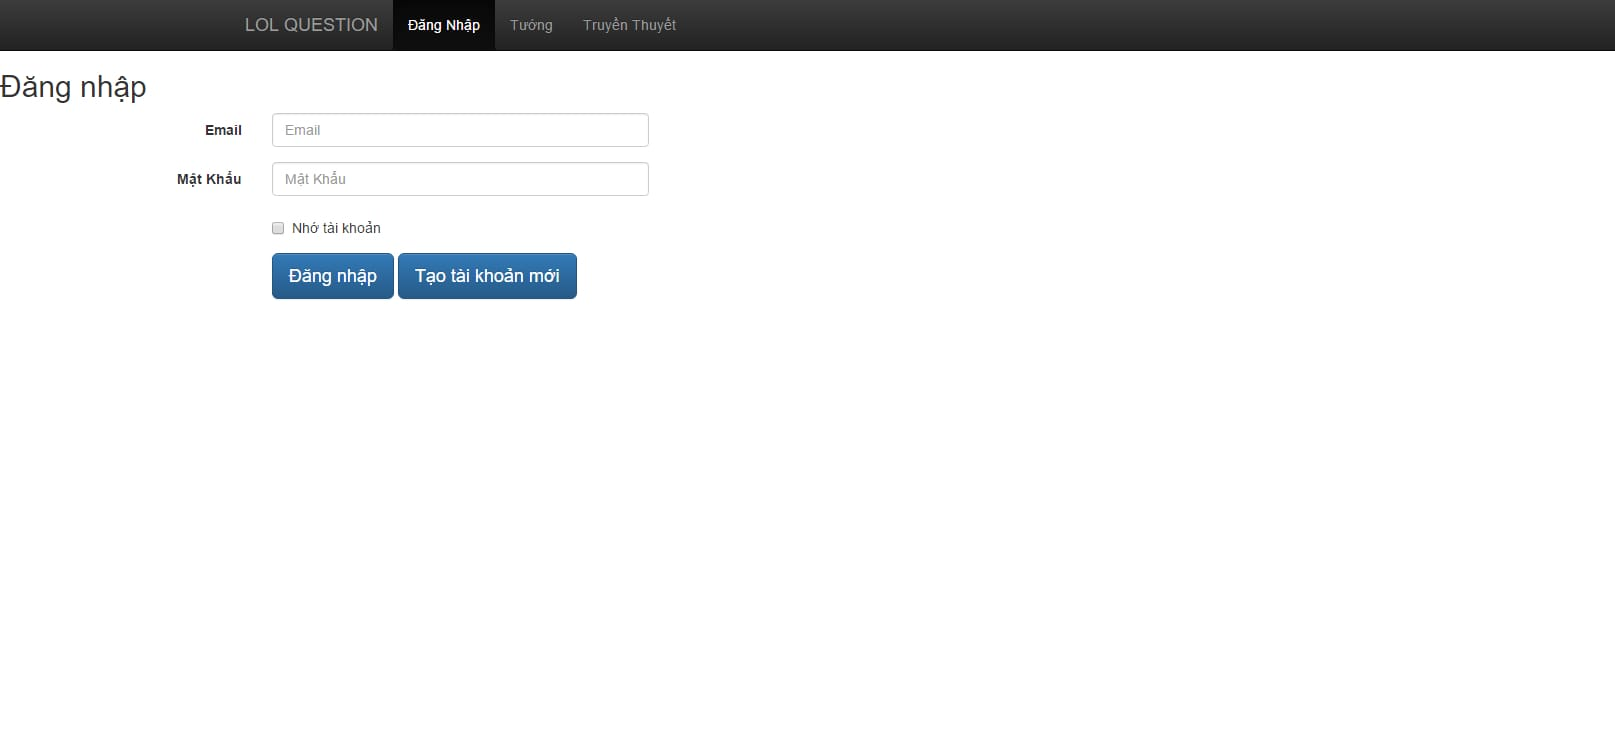
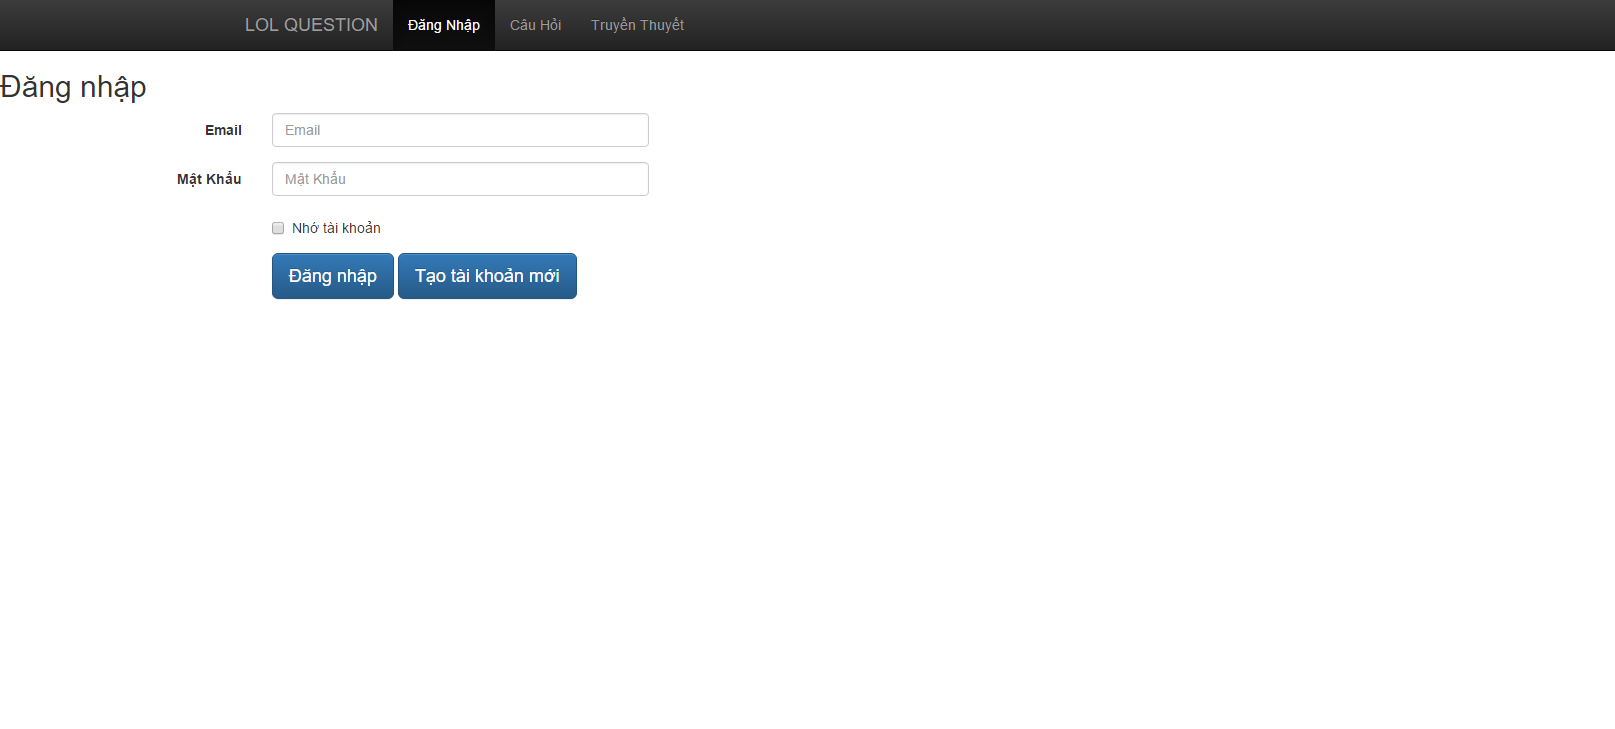
Bai tap nhom VIRUS

diff --git a/Nhom-VIRUS/4.html b/Nhom-VIRUS/4.html
@@ -28,13 +28,13 @@
 			            <span class="icon-bar"></span>
 			            <span class="icon-bar"></span>
 			          </button>
-			          <a class="navbar-brand" href="#">LOL QUESTION</a>
+			          <a class="navbar-brand" href="C:/Users/Trung%20Luong/Desktop/INT2208-2-2017/Nhom-VIRUS/1.html">LOL QUESTION</a>
 			        </div>
 			        <div id="navbar" class="collapse navbar-collapse">
 			          <ul class="nav navbar-nav">
-			            <li > <a href="#about">Đăng Nhập</a></li>
-			            <li ><a href="#contact">Tướng</a></li>
-			            <li class="active"><a href="#contact">Truyền Thuyết</a></li>
+			            <li > <a href="C:/Users/Trung%20Luong/Desktop/INT2208-2-2017/Nhom-VIRUS/2.html">Đăng Nhập</a></li>
+			            <li ><a href="C:/Users/Trung%20Luong/Desktop/INT2208-2-2017/Nhom-VIRUS/3.html">Câu Hỏi</a></li>
+			            <li class="active"><a href="C:/Users/Trung%20Luong/Desktop/INT2208-2-2017/Nhom-VIRUS/4.html">Truyền Thuyết</a></li>
 			          </ul>
 			        </div>
 			      </div>
@@ -45,67 +45,45 @@
 		</div>
 	<h1 class="form-signin-heading">Truyền thuyết về các tướng</h1>
 	<div >
-		<img src="C:\Users\Administrator\Desktop\1.jpg" width="5%">
-		<button type="submit" class="btn btn-default">Aatrox</button>
-		<img src="C:\Users\Administrator\Desktop\2.jpg" width="5%">
-		<button type="submit" class="btn btn-default">Ahri</button>
-		<img src="C:\Users\Administrator\Desktop\3.jpg" width="5%">
-		<button type="submit" class="btn btn-default">Akali</button>
-		<img src="C:\Users\Administrator\Desktop\4.jpg" width="5%">
-		<button type="submit" class="btn btn-default">Alistar</button>
-		<img src="C:\Users\Administrator\Desktop\5.jpg" width="5%">
-		<button type="submit" class="btn btn-default">Amumu</button>
-		<img src="C:\Users\Administrator\Desktop\6.jpg" width="5%">
-		<button type="submit" class="btn btn-default">Anivia</button>
-		<img src="C:\Users\Administrator\Desktop\7.jpg" width="5%">
-		<button type="submit" class="btn btn-default">Annie</button>
-		<img src="C:\Users\Administrator\Desktop\8.jpg" width="5%">
-		<button type="submit" class="btn btn-default">Ashe</button>
-		<img src="C:\Users\Administrator\Desktop\9.jpg" width="5%">
-		<button type="submit" class="btn btn-default">Aurelion Sol</button>
+		<img src="C:\Users\Trung Luong\Desktop\Nhom-VIRUS\1.jpg" width="5%">
+		<a href="C:/Users/Trung%20Luong/Desktop/INT2208-2-2017/Nhom-VIRUS/5.html"><button type="submit" class="btn btn-default" href ="C:/Users/Trung%20Luong/Desktop/INT2208-2-2017/Nhom-VIRUS/5.html">Aatrox</button></a>	
+		<img src="C:\Users\Trung Luong\Desktop\Nhom-VIRUS\2.jpg" width="5%">
+		<a href="C:/Users/Trung%20Luong/Desktop/INT2208-2-2017/Nhom-VIRUS/6.html"><button type="submit" class="btn btn-default" href ="C:/Users/Trung%20Luong/Desktop/INT2208-2-2017/Nhom-VIRUS/5.html">Ahri</button></a>	
+		<img src="C:\Users\Trung Luong\Desktop\Nhom-VIRUS\3.jpg" width="5%">
+		<a href="C:/Users/Trung%20Luong/Desktop/INT2208-2-2017/Nhom-VIRUS/5.html"><button type="submit" class="btn btn-default" href ="C:/Users/Trung%20Luong/Desktop/INT2208-2-2017/Nhom-VIRUS/5.html">Akali</button></a>	
+		<img src="C:\Users\Trung Luong\Desktop\Nhom-VIRUS\4.jpg" width="5%">
+		<a href="C:/Users/Trung%20Luong/Desktop/INT2208-2-2017/Nhom-VIRUS/5.html"><button type="submit" class="btn btn-default" href ="C:/Users/Trung%20Luong/Desktop/INT2208-2-2017/Nhom-VIRUS/5.html">Alistar</button></a>	
+		<img src="C:\Users\Trung Luong\Desktop\Nhom-VIRUS\5.jpg" width="5%">
+		<a href="C:/Users/Trung%20Luong/Desktop/INT2208-2-2017/Nhom-VIRUS/5.html"><button type="submit" class="btn btn-default" href ="C:/Users/Trung%20Luong/Desktop/INT2208-2-2017/Nhom-VIRUS/5.html">Amumu</button></a>	
+		<img src="C:\Users\Trung Luong\Desktop\Nhom-VIRUS\6.jpg" width="5%">
+		<a href="C:/Users/Trung%20Luong/Desktop/INT2208-2-2017/Nhom-VIRUS/5.html"><button type="submit" class="btn btn-default" href ="C:/Users/Trung%20Luong/Desktop/INT2208-2-2017/Nhom-VIRUS/5.html">Anivia</button></a>	
+		<img src="C:\Users\Trung Luong\Desktop\Nhom-VIRUS\7.jpg" width="5%">
+		<a href="C:/Users/Trung%20Luong/Desktop/INT2208-2-2017/Nhom-VIRUS/5.html"><button type="submit" class="btn btn-default" href ="C:/Users/Trung%20Luong/Desktop/INT2208-2-2017/Nhom-VIRUS/5.html">Annie</button></a>	
+		<img src="C:\Users\Trung Luong\Desktop\Nhom-VIRUS\8.jpg" width="5%">
+		<a href="C:/Users/Trung%20Luong/Desktop/INT2208-2-2017/Nhom-VIRUS/5.html"><button type="submit" class="btn btn-default" href ="C:/Users/Trung%20Luong/Desktop/INT2208-2-2017/Nhom-VIRUS/5.html">Ashe</button></a>	
+		<img src="C:\Users\Trung Luong\Desktop\Nhom-VIRUS\9.jpg" width="5%">
+		<a href="C:/Users/Trung%20Luong/Desktop/INT2208-2-2017/Nhom-VIRUS/5.html"><button type="submit" class="btn btn-default" href ="C:/Users/Trung%20Luong/Desktop/INT2208-2-2017/Nhom-VIRUS/5.html">Aurelion Sol</button></a>	
 		</div>
 		<h1>   </h1>
 		<div >
-		<img src="C:\Users\Administrator\Desktop\10.jpg" width="5%">
-		<button type="submit" class="btn btn-default">Azir</button>
-		<img src="C:\Users\Administrator\Desktop\11.jpg" width="5%">
-		<button type="submit" class="btn btn-default">Bard</button>
-		<img src="C:\Users\Administrator\Desktop\12.jpg" width="5%">
-		<button type="submit" class="btn btn-default">Bliztcrank</button>
-		<img src="C:\Users\Administrator\Desktop\13.jpg" width="5%">
-		<button type="submit" class="btn btn-default">Brand</button>
-		<img src="C:\Users\Administrator\Desktop\14.jpg" width="5%">
-		<button type="submit" class="btn btn-default">Braum</button>
-		<img src="C:\Users\Administrator\Desktop\15.jpg" width="5%">
-		<button type="submit" class="btn btn-default">Caitlyn</button>
-		<img src="C:\Users\Administrator\Desktop\16.jpg" width="5%">
-		<button type="submit" class="btn btn-default">Camille</button>
-		<img src="C:\Users\Administrator\Desktop\17.jpg" width="5%">
-		<button type="submit" class="btn btn-default">Cassiopeia</button>
-		<img src="C:\Users\Administrator\Desktop\18.jpg" width="5%">
-		<button type="submit" class="btn btn-default">Cho'Gath</button>
+		<img src="C:\Users\Trung Luong\Desktop\Nhom-VIRUS\10.jpg" width="5%">
+		<a href="C:/Users/Trung%20Luong/Desktop/INT2208-2-2017/Nhom-VIRUS/5.html"><button type="submit" class="btn btn-default" href ="C:/Users/Trung%20Luong/Desktop/INT2208-2-2017/Nhom-VIRUS/5.html">Azir</button></a>	
+		<img src="C:\Users\Trung Luong\Desktop\Nhom-VIRUS\11.jpg" width="5%">
+		<a href="C:/Users/Trung%20Luong/Desktop/INT2208-2-2017/Nhom-VIRUS/5.html"><button type="submit" class="btn btn-default" href ="C:/Users/Trung%20Luong/Desktop/INT2208-2-2017/Nhom-VIRUS/5.html">Bard</button></a>	
+		<img src="C:\Users\Trung Luong\Desktop\Nhom-VIRUS\12.jpg" width="5%">
+		<a href="C:/Users/Trung%20Luong/Desktop/INT2208-2-2017/Nhom-VIRUS/5.html"><button type="submit" class="btn btn-default" href ="C:/Users/Trung%20Luong/Desktop/INT2208-2-2017/Nhom-VIRUS/5.html">Bliztcrank</button></a>	
+		<img src="C:\Users\Trung Luong\Desktop\Nhom-VIRUS\13.jpg" width="5%">
+		<a href="C:/Users/Trung%20Luong/Desktop/INT2208-2-2017/Nhom-VIRUS/5.html"><button type="submit" class="btn btn-default" href ="C:/Users/Trung%20Luong/Desktop/INT2208-2-2017/Nhom-VIRUS/5.html">Brand</button></a>	
+		<img src="C:\Users\Trung Luong\Desktop\Nhom-VIRUS\14.jpg" width="5%">
+		<a href="C:/Users/Trung%20Luong/Desktop/INT2208-2-2017/Nhom-VIRUS/5.html"><button type="submit" class="btn btn-default" href ="C:/Users/Trung%20Luong/Desktop/INT2208-2-2017/Nhom-VIRUS/5.html">Braum</button></a>	
+		<img src="C:\Users\Trung Luong\Desktop\Nhom-VIRUS\15.jpg" width="5%">
+		<a href="C:/Users/Trung%20Luong/Desktop/INT2208-2-2017/Nhom-VIRUS/5.html"><button type="submit" class="btn btn-default" href ="C:/Users/Trung%20Luong/Desktop/INT2208-2-2017/Nhom-VIRUS/5.html">Caitlyn</button></a>	
+		<img src="C:\Users\Trung Luong\Desktop\Nhom-VIRUS\16.jpg" width="5%">
+		<a href="C:/Users/Trung%20Luong/Desktop/INT2208-2-2017/Nhom-VIRUS/5.html"><button type="submit" class="btn btn-default" href ="C:/Users/Trung%20Luong/Desktop/INT2208-2-2017/Nhom-VIRUS/5.html">Camille</button></a>	
+		<img src="C:\Users\Trung Luong\Desktop\Nhom-VIRUS\17.jpg" width="5%">
+		<a href="C:/Users/Trung%20Luong/Desktop/INT2208-2-2017/Nhom-VIRUS/5.html"><button type="submit" class="btn btn-default" href ="C:/Users/Trung%20Luong/Desktop/INT2208-2-2017/Nhom-VIRUS/5.html">Cassiopeia</button></a>	
+		<img src="C:\Users\Trung Luong\Desktop\Nhom-VIRUS\18.jpg" width="5%">
+		<a href="C:/Users/Trung%20Luong/Desktop/INT2208-2-2017/Nhom-VIRUS/5.html"><button type="submit" class="btn btn-default" href ="C:/Users/Trung%20Luong/Desktop/INT2208-2-2017/Nhom-VIRUS/5.html">Cho'Gath</button></a>	
 		</div>
-		<h1> </h1>
-		<div >
-		<img src="C:\Users\Administrator\Desktop\19.jpg" width="5%">
-		<button type="submit" class="btn btn-default">Corki</button>	
-		<img src="C:\Users\Administrator\Desktop\20.jpg" width="5%">
-		<button type="submit" class="btn btn-default">Darius</button>
-		<img src="C:\Users\Administrator\Desktop\21.jpg" width="5%">
-		<button type="submit" class="btn btn-default">Diana</button>
-		<img src="C:\Users\Administrator\Desktop\22.jpg" width="5%">
-		<button type="submit" class="btn btn-default">Dr.Mundo</button>
-		<img src="C:\Users\Administrator\Desktop\23.jpg" width="5%">
-		<button type="submit" class="btn btn-default">Draven</button>
-		<img src="C:\Users\Administrator\Desktop\24.jpg" width="5%">
-		<button type="submit" class="btn btn-default">Ekko</button>
-		<img src="C:\Users\Administrator\Desktop\25.jpg" width="5%">
-		<button type="submit" class="btn btn-default">Elise</button>
-		<img src="C:\Users\Administrator\Desktop\26.jpg" width="5%">
-		<button type="submit" class="btn btn-default">Evelynn</button>
-		<img src="C:\Users\Administrator\Desktop\27.jpg" width="5%">
-		<button type="submit" class="btn btn-default">Ezreal</button>
-	</div>
-
 </body>	
 </html>

diff --git a/Nhom-VIRUS/6.html b/Nhom-VIRUS/6.html
@@ -1,0 +1,55 @@
+<!DOCTYPE html>
+<html>	
+<head>
+<title>TRUYỀN THUYẾT VỀ AHRI</title>
+	<meta name="viewport" content="width=device-width, initial-scale=1, maximum-scale=1, user-scalable=no">
+	<link rel="stylesheet" href="https://maxcdn.bootstrapcdn.com/bootstrap/3.3.7/css/bootstrap.min.css" integrity="sha384-BVYiiSIFeK1dGmJRAkycuHAHRg32OmUcww7on3RYdg4Va+PmSTsz/K68vbdEjh4u" crossorigin="anonymous">
+
+	<link rel="stylesheet" href="https://maxcdn.bootstrapcdn.com/bootstrap/3.3.7/css/bootstrap-theme.min.css" integrity="sha384-rHyoN1iRsVXV4nD0JutlnGaslCJuC7uwjduW9SVrLvRYooPp2bWYgmgJQIXwl/Sp" crossorigin="anonymous">
+
+
+	<script src="https://maxcdn.bootstrapcdn.com/bootstrap/3.3.7/js/bootstrap.min.js" integrity="sha384-Tc5IQib027qvyjSMfHjOMaLkfuWVxZxUPnCJA7l2mCWNIpG9mGCD8wGNIcPD7Txa" crossorigin="anonymous"></script>
+	<style>
+		body {
+			padding:50px 0px;
+		}
+	</style>
+</head>
+<body>
+	<div class "container">
+		<div class "row">
+			<div class = "col-md-5">
+				<nav class="navbar navbar-inverse navbar-fixed-top">
+			      <div class="container">
+			        <div class="navbar-header">
+			          <button type="button" class="navbar-toggle collapsed" data-toggle="collapse" data-target="#navbar" aria-expanded="false" aria-controls="navbar">
+			            <span class="sr-only">Toggle navigation</span>
+			            <span class="icon-bar"></span>
+			            <span class="icon-bar"></span>
+			            <span class="icon-bar"></span>
+			          </button>
+			          <a class="navbar-brand" href="C:/Users/Trung%20Luong/Desktop/INT2208-2-2017/Nhom-VIRUS/1.html">LOL QUESTION</a>
+			        </div>
+			        <div id="navbar" class="collapse navbar-collapse">
+			          <ul class="nav navbar-nav">
+			            <li > <a href="C:/Users/Trung%20Luong/Desktop/INT2208-2-2017/Nhom-VIRUS/2.html">Đăng Nhập</a></li>
+			            <li ><a href="C:/Users/Trung%20Luong/Desktop/INT2208-2-2017/Nhom-VIRUS/3.html">Câu Hỏi</a></li>
+			            <li class="active"><a href="C:/Users/Trung%20Luong/Desktop/INT2208-2-2017/Nhom-VIRUS/4.html">Truyền Thuyết</a></li>
+			          </ul>
+			        </div>
+			      </div>
+    			</nav>
+			</div>
+		</div>					
+	</div>
+	<div>
+	<h1 class="form-signin-heading">Ahri</h1>
+	</div>
+	<div style="background: gold">
+	<img src="C:\Users\Trung Luong\Desktop\Nhom-VIRUS\2.jpg" width="10%">
+	<h2>Không như những con hồ li khác cư ngụ trong các khu rừng phía nam Ionia, Ahri vẫn luôn cảm nhận được một mối liên kết lạ kì với thế giới ma thuật quanh cô; một mối liên kết dường như chưa hoàn thiện. Sâu thẳm bên trong, cô cho rằng hình hài hiện tại của mình hoàn toàn là một sai lầm của tạo hóa, và cô không bao giờ dừng ước mơ về một mai kia được trở thành một con người. Khát khao đó dường như chẳng bao giờ có thể trở thành hiện thực, cho đến một ngày kia cô vô tình gặp phải một cuộc chiến của loài người. Một cảnh tượng thật khủng khiếp, khắp nơi đều tràn ngập hình ảnh của những người chết hoặc trọng thương. Cô cảm thấy bị cuốn hút bởi một người - gã đàn ông mặc áo choàng đang hấp hối trong một trường ma thuật. Cô tiến lại gần và lập tức một thứ gì đó bên trong Ahri được kích hoạt, vươn tới người đàn ông theo một phương thức mà cô không tài nào hiểu nổi. Sự sống của ông ta trút dần sang người cô qua những liên kết phép thuật vô hình. Một cảm giác bao trùm và say đắm. Rồi khi cảm giác đó qua đi, cô mừng rỡ xiết bao khi nhận thấy mình đã thay đổi. Bộ lông trắng mượt của cô đã biến mất, cơ thể Ahri giờ mang dáng dấp của những thi thể đang nằm rải rác quanh đó.Tuy nhiên, dù đang mang hình hài của loài người, cô biết rằng sự chuyển hóa vẫn chưa được hoàn tất. Bằng sự tinh ranh của mình, cô nhanh chóng thích nghi với xã hội loài người và tận dụng sắc đẹp của bản thân để cám dỗ những gã đàn ông ngây thơ. Với thủ đoạn đó, cô có thể hút sức sống khi họ đang bị quyến rũ. Càng ngày cô càng tiến gần đến khát khao của mình hơn, nhưng đồng thời, một cảm giác hối hận cũng trỗi dậy trong cô. Ahri đã có những cảm xúc mà lẽ ra bản thể hồ li chẳng bao giờ có. Rồi cô nhận ra mình không thể trút bỏ đi được những cảm xúc con người trong quá trình tiến hóa của bản thân. Trong hành trình tìm kiếm một giải pháp, Ahri đã đến với Viện Chiến tranh, nơi cư ngụ của những pháp sư hùng mạnh nhất Runeterra. Họ cho cô một cơ hội đạt được sự tiến hóa thành người một cách hoàn chỉnh, mà không gây hại bằng cách phục vụ trong Liên Minh Huyền Thoại.</h2>
+	<h2>''Nhân ái là một sự xa xỉ của nhân loại...và cũng là một trách nhiệm.''</h2>
+	<h2><b>-- Ahri</b> </h2>
+
+</body>	
+</html>

diff --git a/Nhom-VIRUS/5.html b/Nhom-VIRUS/5.html
@@ -1,7 +1,7 @@
 <!DOCTYPE html>
 <html>	
 <head>
-<title>TRUYỀN THUYẾT</title>
+<title>TRUYỀN THUYẾT VỀ AATROX</title>
 	<meta name="viewport" content="width=device-width, initial-scale=1, maximum-scale=1, user-scalable=no">
 	<link rel="stylesheet" href="https://maxcdn.bootstrapcdn.com/bootstrap/3.3.7/css/bootstrap.min.css" integrity="sha384-BVYiiSIFeK1dGmJRAkycuHAHRg32OmUcww7on3RYdg4Va+PmSTsz/K68vbdEjh4u" crossorigin="anonymous">
 
@@ -28,13 +28,13 @@
 			            <span class="icon-bar"></span>
 			            <span class="icon-bar"></span>
 			          </button>
-			          <a class="navbar-brand" href="#">LOL QUESTION</a>
+			          <a class="navbar-brand" href="C:/Users/Trung%20Luong/Desktop/INT2208-2-2017/Nhom-VIRUS/1.html">LOL QUESTION</a>
 			        </div>
 			        <div id="navbar" class="collapse navbar-collapse">
 			          <ul class="nav navbar-nav">
-			            <li > <a href="#about">Đăng Nhập</a></li>
-			            <li ><a href="#contact">Tướng</a></li>
-			            <li class="active"><a href="#contact">Truyền Thuyết</a></li>
+			            <li > <a href="C:/Users/Trung%20Luong/Desktop/INT2208-2-2017/Nhom-VIRUS/2.html">Đăng Nhập</a></li>
+			            <li ><a href="C:/Users/Trung%20Luong/Desktop/INT2208-2-2017/Nhom-VIRUS/3.html">Câu Hỏi</a></li>
+			            <li class="active"><a href="C:/Users/Trung%20Luong/Desktop/INT2208-2-2017/Nhom-VIRUS/4.html">Truyền Thuyết</a></li>
 			          </ul>
 			        </div>
 			      </div>
@@ -46,7 +46,7 @@
 	<h1 class="form-signin-heading">Aatrox</h1>
 	</div>
 	<div style="background: gold">
-	<img src="C:\Users\Administrator\Desktop\1.jpg" width="10%">
+	<img src="C:\Users\Trung Luong\Desktop\Nhom-VIRUS\1.jpg" width="10%">
 	<h2>Aatrox là một chiến binh huyền thoại, một trong năm người cuối còn lại của một tộc người cổ xưa được biết đến với cái tên Darkin. Với lưỡi kiếm to bản trong tay, hắn ta có thể chém nát cả những quân đoàn hùng mạnh bằng một cách mà vẫn giữ được phong thái mê hoặc. Mỗi khi kẻ thù nằm xuống, thanh gươm dường như có tri giác của Aatrox uống máu chúng, tăng cường sức mạnh cho hắn và duy trì hành trình tàn sát hung bạo nhưng vẫn thanh thoát của hắn.Những chuyện kể đầu tiên về Aatrox cũng xưa cũ như những ghi chú lịch sử đầu tiên. Nó nói về một cuộc chiến giữa hai phe với tên gọi là Thuộc Địa và Đại Pháp Sư. Sau một thời gian, phe Đại Pháp Sư liên tiếp có những chiến thắng áp đảo và tiến gần đến việc quét sạch đối thủ truyền kiếp một lần và mãi mãi. Trong cuộc chạm trán cuối cùng, đội quân Thuộc Địa bị áp đảo về số lượng, kiệt sức và thiếu thốn trang bị. Họ chờ đợi thất bại không thể tránh khỏi.Khi mọi hi vọng như đã mất đi, Aatrox xuất hiện giữa hàng ngũ quân Thuộc Địa. Chỉ với vài hiệu lệnh ngắn, hắn đốc thúc binh sĩ chiến đấu đến hơi thở cuối cùng trước khi tự mình băng vào biển máu. Sự hiện diện của hắn ủy lạo tinh thần những chiến binh trong bước đường cùng. Đầu tiên họ chỉ kinh ngạc đứng nhìn người hùng vô danh này chém nát đội hình địch, ngưởi và kiếm như một thực thể thống nhất. Rất nhanh sau đó nhưng chiến binh phe Thuộc Địa cảm thấy cơ thể tràn ngập khát khao chiến đấu. Họ lao theo Aatrox, mỗi ngưởi chiến đấu với sức mạnh kinh hoàng của mười người cho đến khi họ giành thắng lợi không tưởng. Aatrox biến mất sau trận chiến, nhưng cơn cuồng nộ mới được khai thông của phe Thuộc Địa vẫn còn đó. Chiến thắng bất ngờ đó mở đầu cho những vinh quang tiếp theo cho đến khi họ thắng lợi quay về quê hương. Ngưởi dân vinh danh họ như những người anh hùng, nhưng họ vừa cứu cả một nền văn minh thoát khỏi thảm họa diệt vong, bóng tối vẫn lẩn khuất trong trong tâm trí mỗi chiến binh. Cái gì đó bên trong họ đã thay đổi. Dần dà, kí ức chinh chiến của họ phai nhạt, chỉ còn lại sự giác ngộ u uẩn: chiến công hiển hách của họ thực ra là những hành vi tàn bạo thực hiện bởi chính đôi tay họ.Những câu chuyện như thế xuất hiện trong truyền thuyết của nhiều nền văn minh. Nếu như tất cả đều là thật, sự hiện diện của Aatrox đã thay đổi cục diện của một vài cuộc chiến quan trọng nhất của lịch sử. Dù những câu chuyện này ghi nhớ về hắn như một vị cứu tinh trong những thời khắc tăm tối, di sản thực sự của Aatrox có thể là một thế giới chất chứa chinh chiến và hận thù.</h2>
 	<h2>''Có kẻ chiến đấu vì danh dự, có chiến đấu vì vinh quang. Quan trọng là ngươi có chiến đấu.''</h2>
 	<h2><b>-- Aatrox</b> </h2>

diff --git a/Nhom-VIRUS/3.html b/Nhom-VIRUS/3.html
@@ -1,7 +1,7 @@
 <!DOCTYPE html>
 <html>	
 <head>
-	<title>CÂU HỎI VỀ TƯỚNG </title>
+	<title>CÁC CÂU HỎI</title>
 	<meta name="viewport" content="width=device-width, initial-scale=1, maximum-scale=1, user-scalable=no">
 	<link rel="stylesheet" href="https://maxcdn.bootstrapcdn.com/bootstrap/3.3.7/css/bootstrap.min.css" integrity="sha384-BVYiiSIFeK1dGmJRAkycuHAHRg32OmUcww7on3RYdg4Va+PmSTsz/K68vbdEjh4u" crossorigin="anonymous">
 
@@ -28,13 +28,13 @@
 			            <span class="icon-bar"></span>
 			            <span class="icon-bar"></span>
 			          </button>
-			          <a class="navbar-brand" href="#">LOL QUESTION</a>
+			          <a class="navbar-brand" href="C:/Users/Trung%20Luong/Desktop/INT2208-2-2017/Nhom-VIRUS/1.html">LOL QUESTION</a>
 			        </div>
 			        <div id="navbar" class="collapse navbar-collapse">
 			          <ul class="nav navbar-nav">
-			            <li > <a href="#about">Đăng Nhập</a></li>
-			            <li class="active"><a href="#contact">Tướng</a></li>
-			            <li><a href="#contact">Truyền Thuyết</a></li>
+			            <li > <a href="C:/Users/Trung%20Luong/Desktop/INT2208-2-2017/Nhom-VIRUS/2.html">Đăng Nhập</a></li>
+						<li class= "active"><a href="C:/Users/Trung%20Luong/Desktop/INT2208-2-2017/Nhom-VIRUS/3.html">Câu Hỏi</a></li>
+						<li ><a href="C:/Users/Trung%20Luong/Desktop/INT2208-2-2017/Nhom-VIRUS/4.html">Truyền Thuyết</a></li>
 			          </ul>
 			        </div>
 			      </div>
@@ -46,25 +46,25 @@
 		<h1 class="form-signin-heading">CÁC CÂU HỎI VỀ TƯỚNG</h1>
 		 <div class="container">
 		      <div class="starter-template" style="background: gold">
-		        <h3>Câu hỏi 1:"Những hành động của một người có thể phá hủy thế giới, nhưng với sự nỗ lực của nhều người, vẫn có thể tái tạo lại" Đây là câu nói của ai?</h3>
+		        <h3>Câu hỏi 1:"Những hành động của một người có thể phá hủy thế giới, nhưng với sự nỗ lực của nhiều người, vẫn có thể tái tạo lại" Đây là câu nói của ai?</h3>
 		
 		<div class="radio">
-		  <label>
+		  <h3><label>
 		    <input type="radio" name="optionsRadios" id="optionsRadios1" value="option1">
 		    Leesin
-		  </label>
+		  </label></h3>
 		</div>
 		<div class="radio">
-		  <label>
+		  <h3><label>
 		    <input type="radio" name="optionsRadios" id="optionsRadios2" value="option2">
 		    Nocturn
-		  </label>
+		  </label></h3>
 		</div>
 		<div class="radio">
-		  <label>
+		  <h3><label>
 		    <input type="radio" name="optionsRadios" id="optionsRadios3" value="option3" >
 		    Graves
-		  </label>		  
+		  </label></h3>		  
 		  </div>
 		  <div class="col-sm-offset-0 col-sm-3">
 				 <button type="submit" class="btn btn-default">NEXT</button>

diff --git a/Nhom-VIRUS/2.html b/Nhom-VIRUS/2.html
@@ -28,13 +28,13 @@
 			            <span class="icon-bar"></span>
 			            <span class="icon-bar"></span>
 			          </button>
-			          <a class="navbar-brand" href="#">LOL QUESTION</a>
+			          <a class="navbar-brand" href="C:/Users/Trung%20Luong/Desktop/INT2208-2-2017/Nhom-VIRUS/1.html">LOL QUESTION</a>
 			        </div>
 			        <div id="navbar" class="collapse navbar-collapse">
 			          <ul class="nav navbar-nav">
-			            <li class="active"> <a href="#about">Đăng Nhập</a></li>
-			            <li><a href="#contact">Tướng</a></li>
-			            <li><a href="#contact">Truyền Thuyết</a></li>
+			            <li class= "active"> <a href="C:/Users/Trung%20Luong/Desktop/INT2208-2-2017/Nhom-VIRUS/2.html">Đăng Nhập</a></li>
+						<li ><a href="C:/Users/Trung%20Luong/Desktop/INT2208-2-2017/Nhom-VIRUS/3.html">Câu Hỏi</a></li>
+						<li ><a href="C:/Users/Trung%20Luong/Desktop/INT2208-2-2017/Nhom-VIRUS/4.html">Truyền Thuyết</a></li>
 			          </ul>
 			        </div>
 			      </div>

diff --git a/Nhom-VIRUS/1.html b/Nhom-VIRUS/1.html
@@ -30,14 +30,14 @@
             <span class="icon-bar"></span>
           </button>
           <ul class="nav navbar-nav">
-            <li class="active" ><a class="navbar-brand" href="#">LOL QUESTION</a></li>
+            <li class="active" ><a class="navbar-brand" href="C:/Users/Trung%20Luong/Desktop/INT2208-2-2017/Nhom-VIRUS/1.html">LOL QUESTION</a></li>
           </ul>
         </div>
         <div id="navbar" class="collapse navbar-collapse">
           <ul class="nav navbar-nav">
-            <li><a href="#about">Đăng Nhập</a></li>
-            <li><a href="#contact">Tướng</a></li>
-            <li><a href="#contact">Truyền Thuyết</a></li>
+            <li > <a href="C:/Users/Trung%20Luong/Desktop/INT2208-2-2017/Nhom-VIRUS/2.html">Đăng Nhập</a></li>
+			<li ><a href="C:/Users/Trung%20Luong/Desktop/INT2208-2-2017/Nhom-VIRUS/3.html">Câu hỏi</a></li>
+			<li ><a href="C:/Users/Trung%20Luong/Desktop/INT2208-2-2017/Nhom-VIRUS/4.html">Truyền Thuyết</a></li>
 
           </ul>
         </div><!--/.nav-collapse -->
